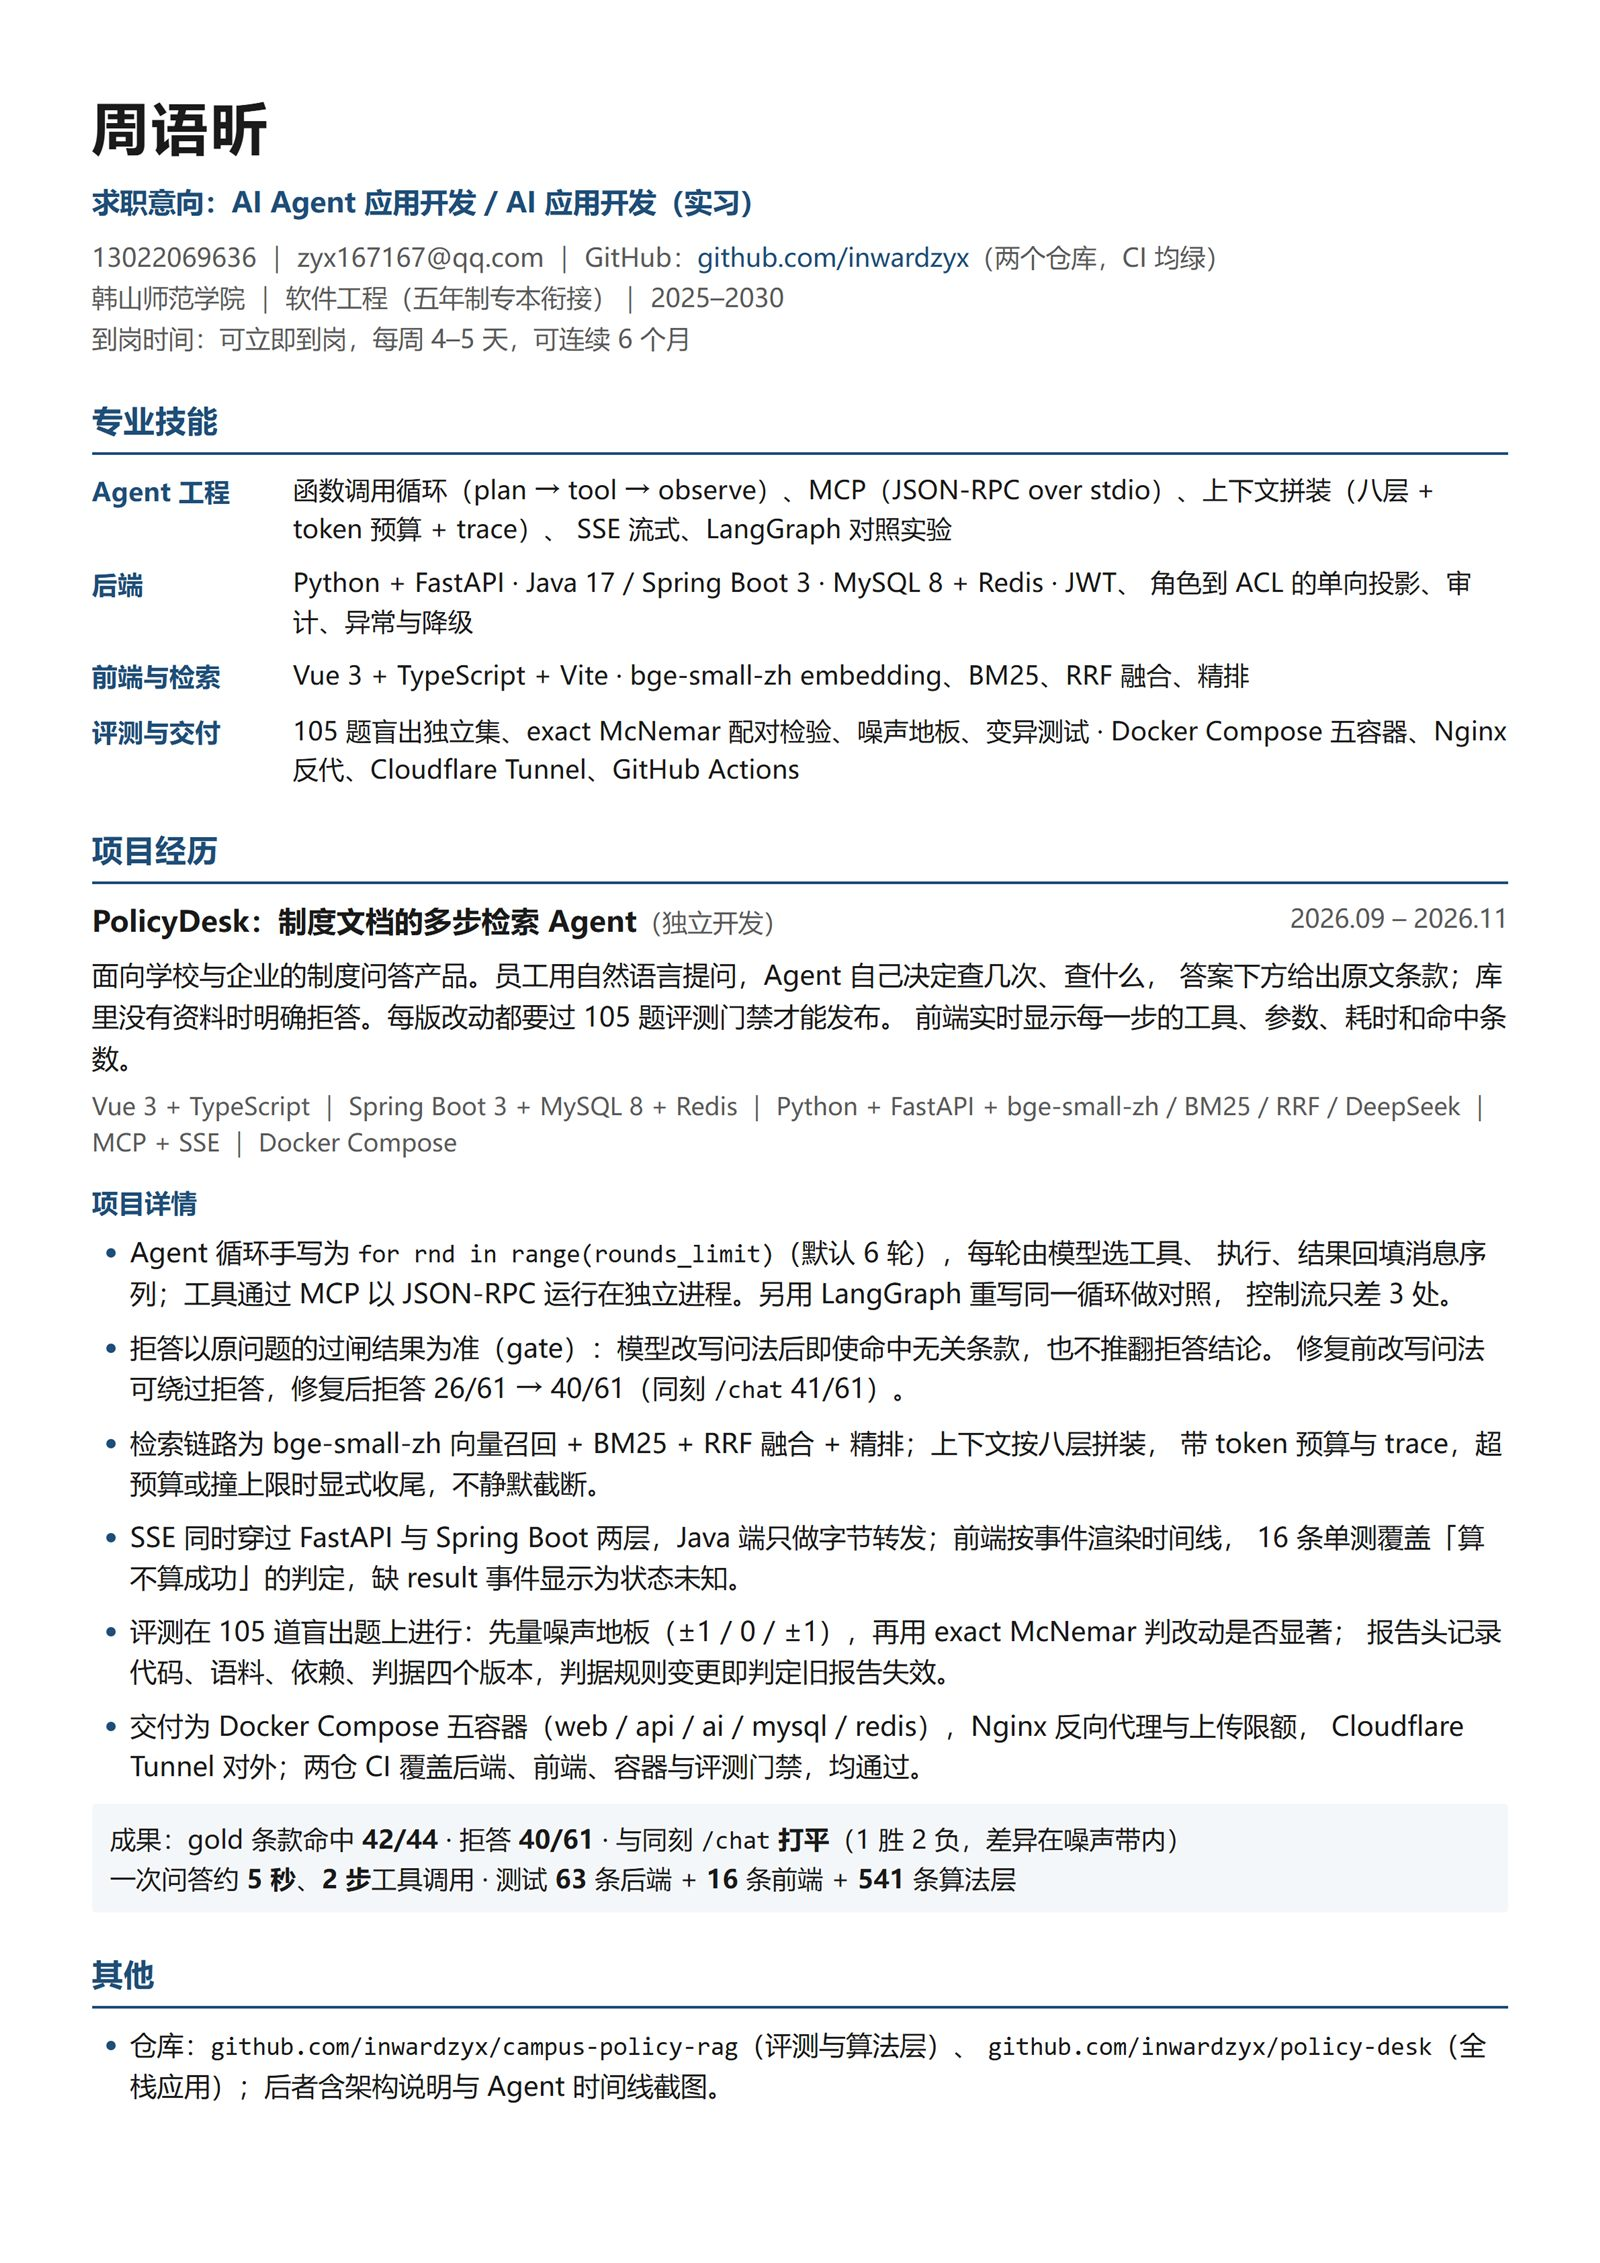
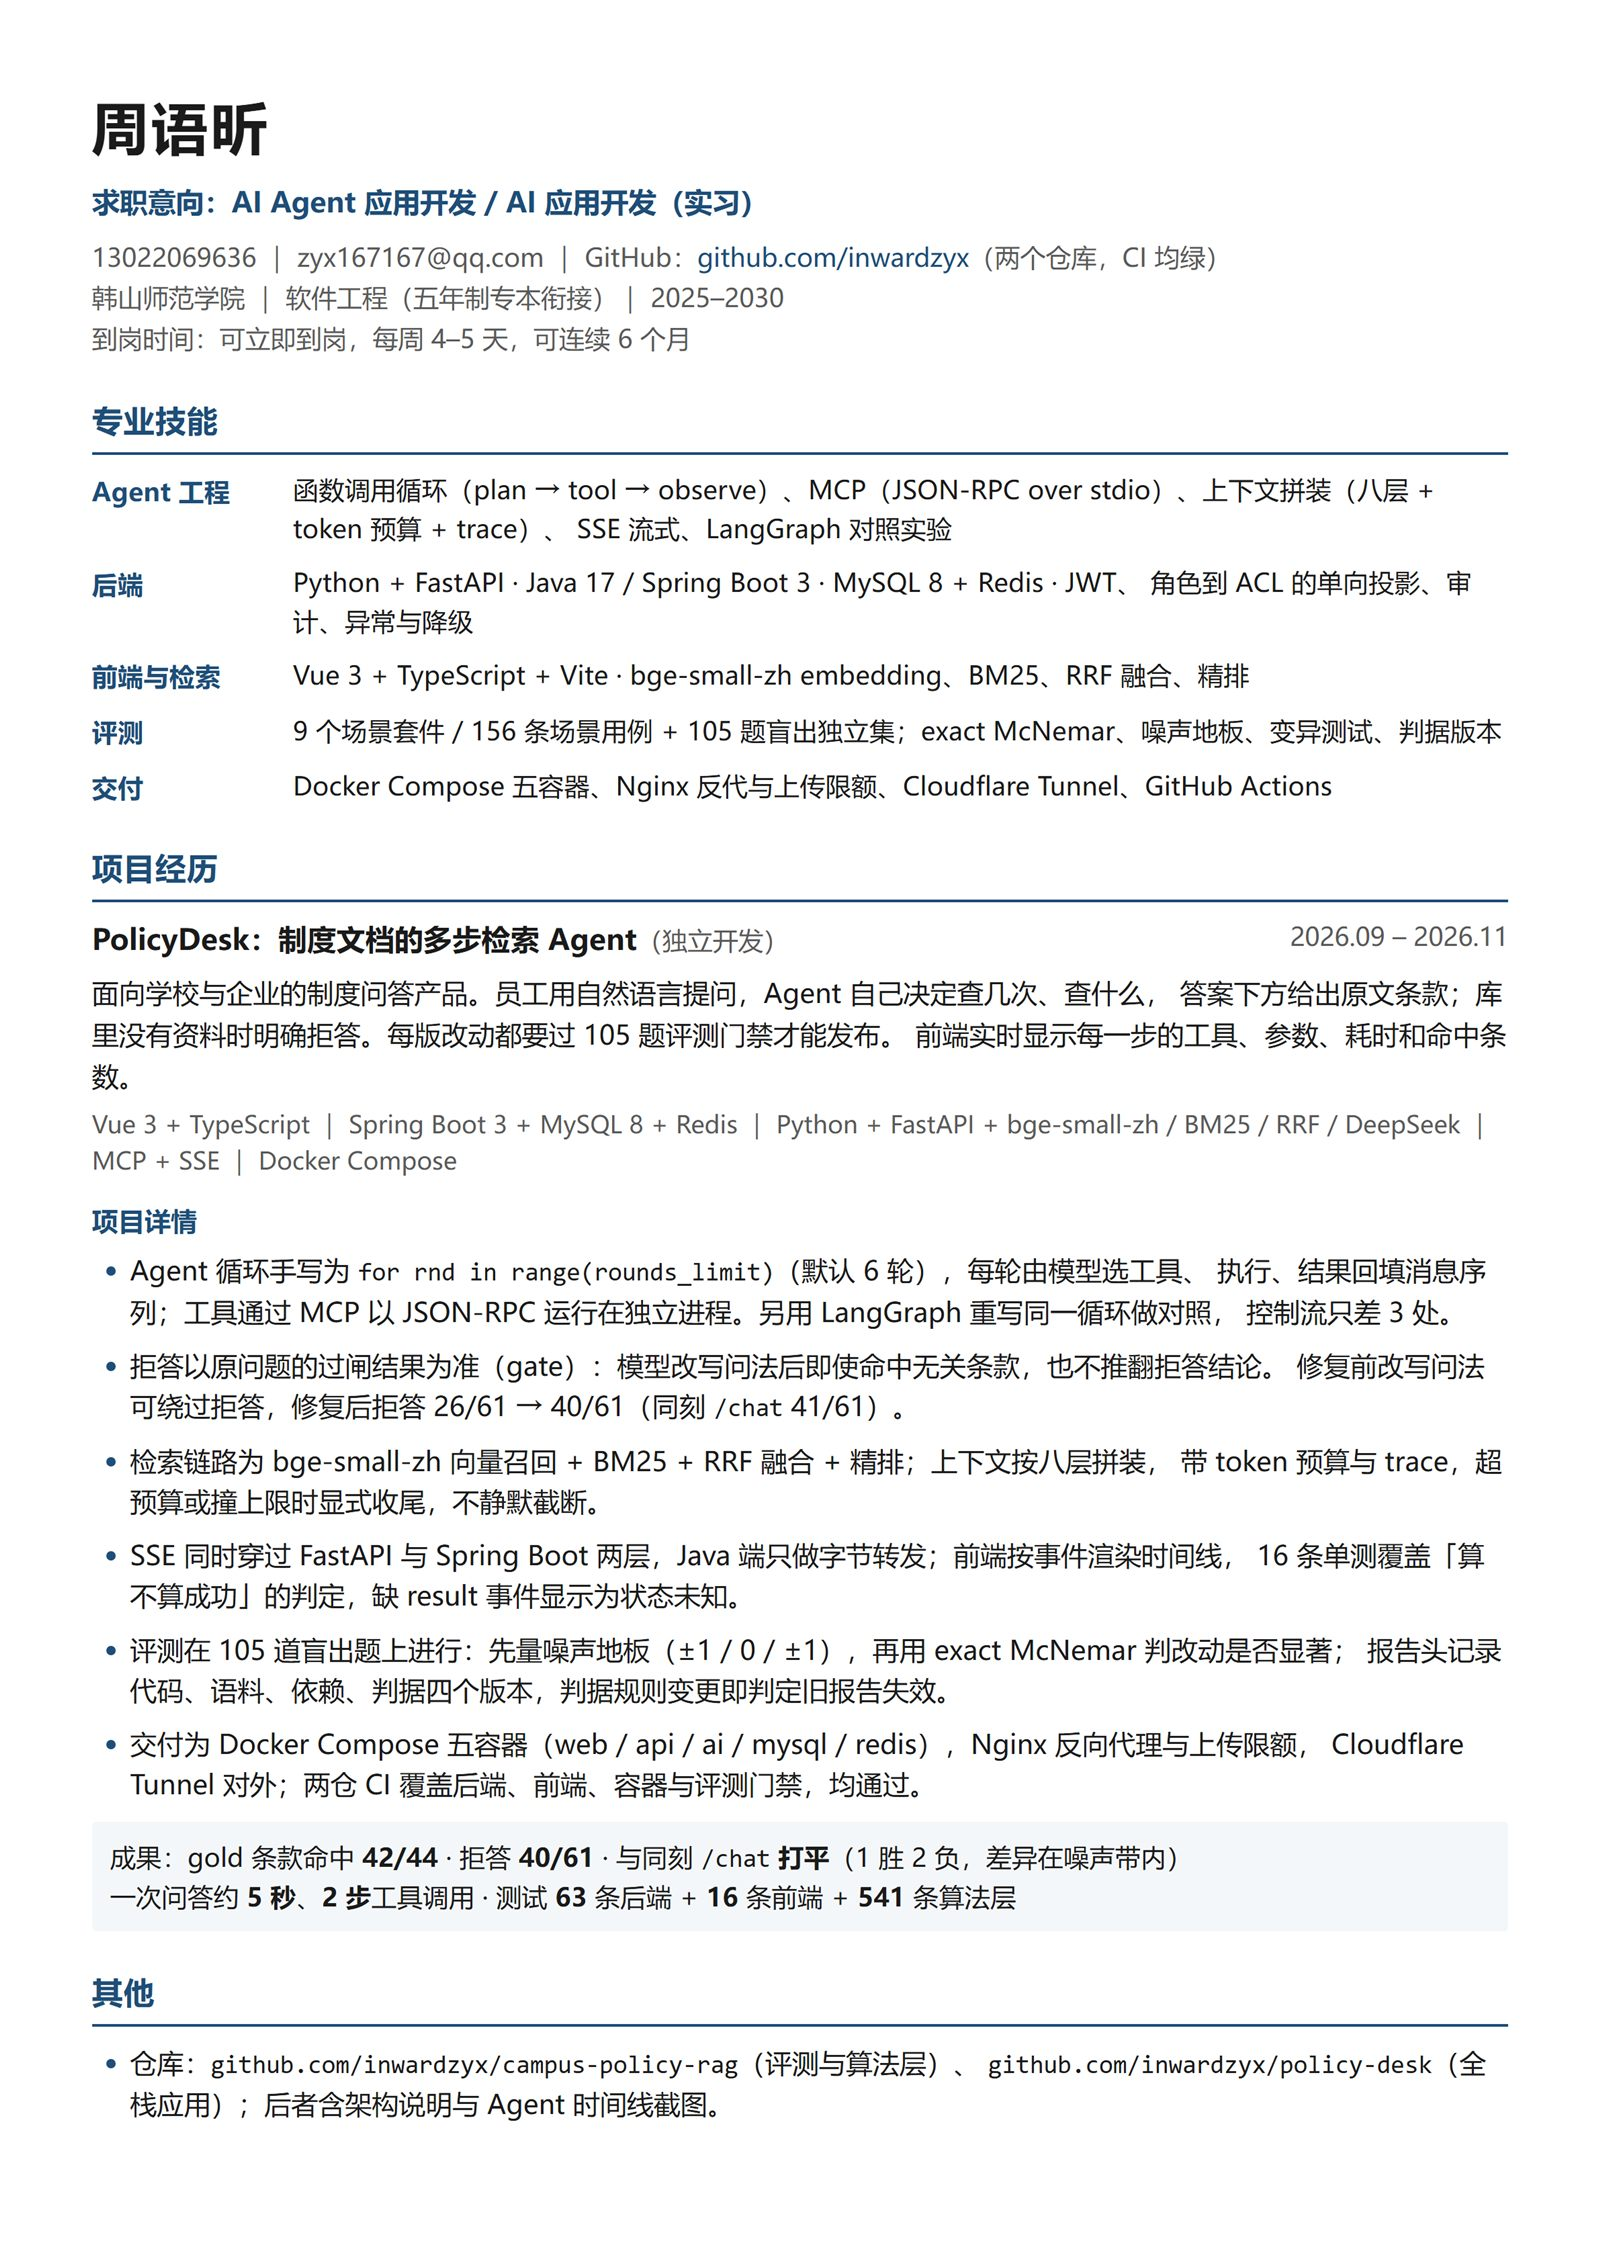
docs(resume): 技能栏补「9 个场景套件 / 156 条用例 / 105 题盲出集」，并把它们纳入现算
- 评测与交付拆成「评测」「交付」两行（原来一行挤三行，且换行后行首挂了个孤立的「·」）
- `check_resume_numbers.py` 新增三个锚点：场景套件数、场景用例数、盲出独立集题数
  （数 `evalset/scenarios/*.jsonl` 的文件数与非空行数、`heldout/questions.json` 的题数）
- CI 里外部仓库不在时，这三项与算法层一起显式 SKIP（不静默当 0）
- 实测：63 / 16 / 541 / 9 套件 / 156 用例 / 105 题，全部与仓库一致

Changed region(s): [[0.0312, 0.3093, 0.9375, 0.9589], [0.625, 0.897, 0.9375, 0.928], [0.0938, 0.3093, 0.125, 0.3403]]

diff --git a/docs/resume-final-img.html b/docs/resume-final-img.html
@@ -90,9 +90,11 @@
   <div class="k">前端与检索</div>
   <div>Vue 3 + TypeScript + Vite · bge-small-zh embedding、BM25、RRF 融合、精排</div>
 
-  <div class="k">评测与交付</div>
-  <div>105 题盲出独立集、exact McNemar 配对检验、噪声地板、变异测试 ·
-    Docker Compose 五容器、Nginx 反代、Cloudflare Tunnel、GitHub Actions</div>
+  <div class="k">评测</div>
+  <div>9 个场景套件 / 156 条场景用例 + 105 题盲出独立集；exact McNemar、噪声地板、变异测试、判据版本</div>
+
+  <div class="k">交付</div>
+  <div>Docker Compose 五容器、Nginx 反代与上传限额、Cloudflare Tunnel、GitHub Actions</div>
 </div>
 
 <h2>项目经历</h2>

diff --git a/docs/resume-final.html b/docs/resume-final.html
@@ -89,9 +89,11 @@
   <div class="k">前端与检索</div>
   <div>Vue 3 + TypeScript + Vite · bge-small-zh embedding、BM25、RRF 融合、精排</div>
 
-  <div class="k">评测与交付</div>
-  <div>105 题盲出独立集、exact McNemar 配对检验、噪声地板、变异测试 ·
-    Docker Compose 五容器、Nginx 反代、Cloudflare Tunnel、GitHub Actions</div>
+  <div class="k">评测</div>
+  <div>9 个场景套件 / 156 条场景用例 + 105 题盲出独立集；exact McNemar、噪声地板、变异测试、判据版本</div>
+
+  <div class="k">交付</div>
+  <div>Docker Compose 五容器、Nginx 反代与上传限额、Cloudflare Tunnel、GitHub Actions</div>
 </div>
 
 <h2>项目经历</h2>

diff --git a/scripts/check_resume_numbers.py b/scripts/check_resume_numbers.py
@@ -8,10 +8,16 @@
 | 简历原话 | 实际 | 病根 |
 |---|---|---|
 | `for rnd in range(6)` | `for rnd in range(rounds_limit)`（`MAX_ROUNDS = 6`） | 写成了**早期快照**，代码改了简历没跟 |
-| 473 条算法层测试 | `pytest --collect-only` = **532** | 加了几十个 agent 用例后没更新 |
+| 473 条算法层测试 | `pytest --collect-only` = 541 | 加了几十个 agent 用例后没更新 |
 | 16 条前端单测 | `npm test` = **16** ✓ | 数是对的，但没人能一眼复算 |
 
 ⇒ 规矩：**简历里每个数字都要有一条命令能现算**，并且这个脚本能判红。
+
+## 现在核哪些
+
+后端 `@Test` 数 / 前端 vitest 数 / 算法层 pytest 收集数 /
+场景套件数与用例数（`evalset/scenarios/*.jsonl`）/ 盲出独立集题数 /
+`for rnd in range(...)` 的写法。
 
 ## 怎么用
 
@@ -97,6 +103,24 @@ def count_pytest_collected() -> int:
     return int(m.group(1))
 
 
+def count_suites() -> tuple[int, int]:
+    """场景套件数 + 用例数：`evalset/scenarios/*.jsonl`，按文件数与非空行数现算。"""
+    d = RAG / "evalset" / "scenarios"
+    files = sorted(d.glob("*.jsonl"))
+    n_cases = 0
+    for f in files:
+        n_cases += sum(1 for line in _text(f).splitlines() if line.strip())
+    return len(files), n_cases
+
+
+def count_heldout() -> int:
+    """盲出独立集题数：`evalset/heldout/questions.json` 里 questions 的条数。"""
+    import json as _json
+
+    data = _json.loads(_text(RAG / "evalset" / "heldout" / "questions.json"))
+    return len(data.get("questions") or data)
+
+
 def loop_anchor_ok() -> tuple[bool, str]:
     """简历里那句 `for rnd in range(...)` 必须与代码逐字对得上。"""
     loop = _text(RAG / "agent" / "loop.py")
@@ -128,6 +152,8 @@ def main() -> int:
     have_ext = external_available()
     if have_ext:
         py = count_pytest_collected()
+        n_suites, n_cases = count_suites()
+        n_heldout = count_heldout()
         ok, loop = loop_anchor_ok()
     elif args.allow_missing_external:
         py, loop = None, None
@@ -149,6 +175,9 @@ def main() -> int:
     claim(r"(\d+) 条前端", fe, "前端单测数")
     if py is not None:
         claim(r"(\d+) 条算法层", py, "算法层测试数")
+        claim(r"(\d+) 个场景套件", n_suites, "场景套件数")
+        claim(r"(\d+) 条场景用例", n_cases, "场景用例数")
+        claim(r"(\d+) 题盲出独立集", n_heldout, "盲出独立集题数")
     else:
         print("SKIP 算法层测试数（外部仓库不在；CI 只 checkout 本仓库）")
 
@@ -161,6 +190,9 @@ def main() -> int:
     print(f"后端 @Test           = {java}")
     print(f"前端 vitest          = {fe}")
     print(f"算法层 pytest 收集    = {py if py is not None else 'SKIP（外部仓库不在）'}")
+    if py is not None:
+        print(f"场景套件 / 用例       = {n_suites} 个 / {n_cases} 条")
+        print(f"盲出独立集            = {n_heldout} 题")
     print(f"循环锚点             = {loop if loop is not None else 'SKIP'}")
 
     if problems:
